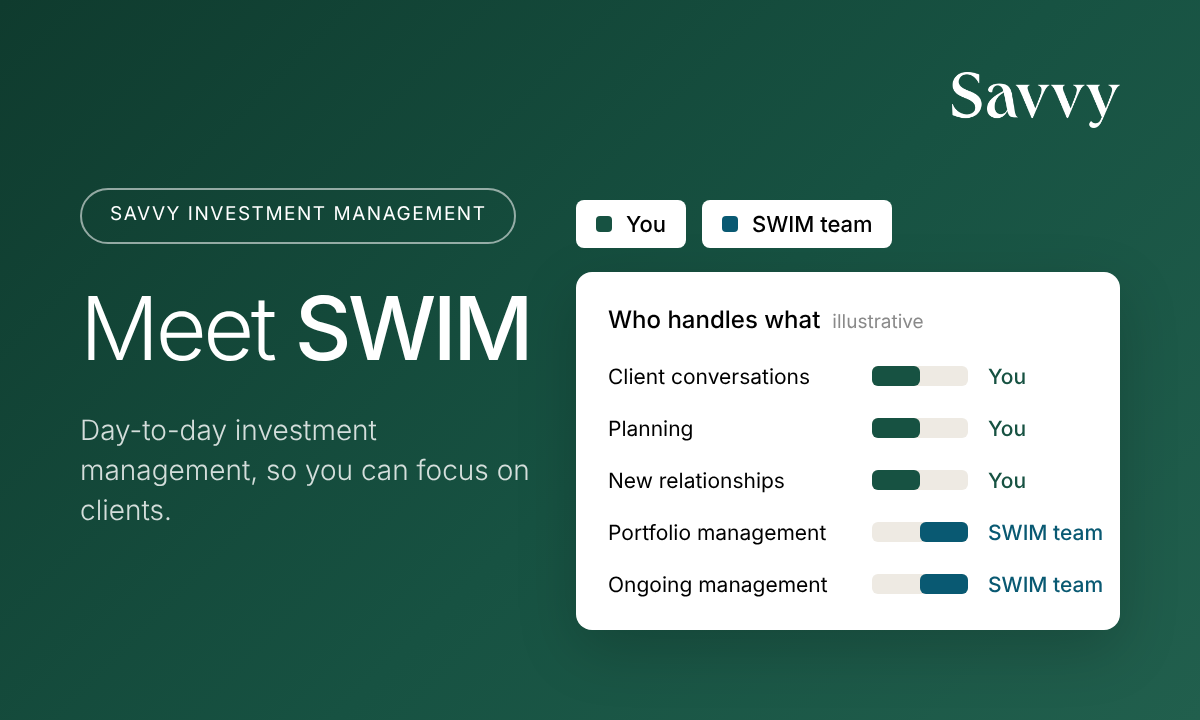
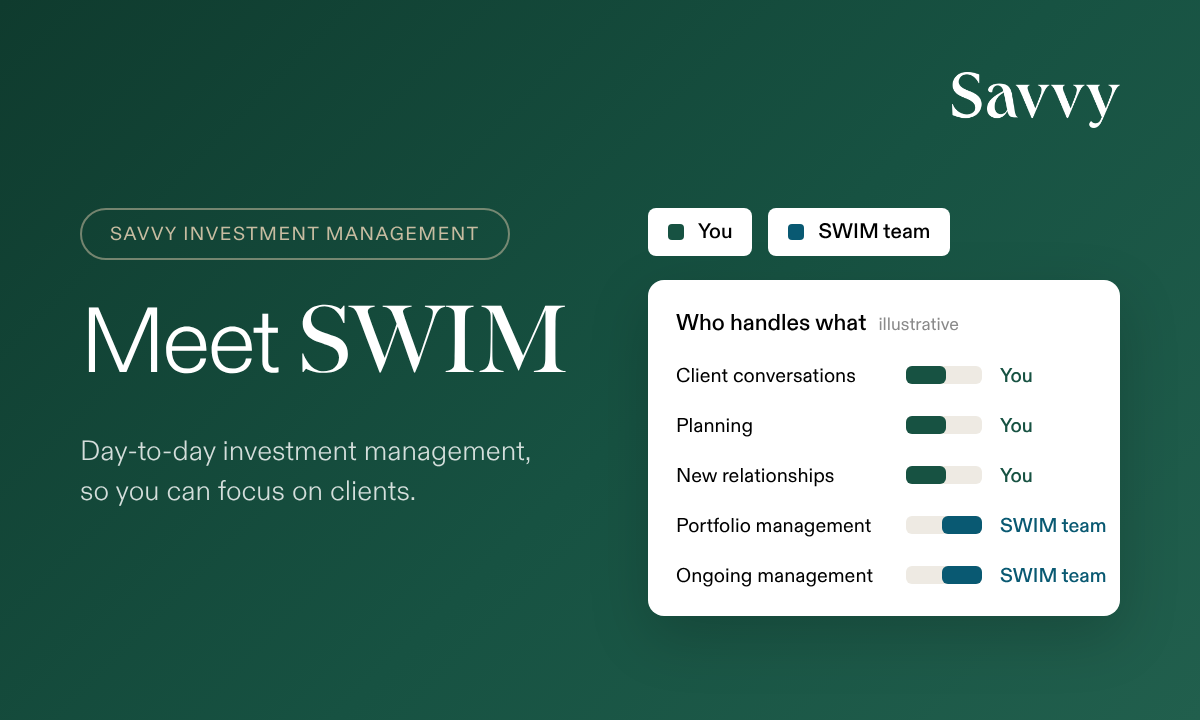
Email 1: brand-font header (Diatype + Big Caslon), eyebrow ecru and padding, spacing, 10% dividers
Claude-Session: https://claude.ai/code/session_01C4U8FBFynJxChWkXC4yVRQ

diff --git a/emails/header-swim.html b/emails/header-swim.html
@@ -1,37 +1,46 @@
 <!DOCTYPE html>
 <html lang="en"><head><meta charset="UTF-8">
 <title>Email 1 header image</title>
-<!-- Source for assets/header-swim.png. Rendered at 600x360 @2x (1200x720) with Playwright. Edit here, re-render, replace the PNG. -->
+<!--
+  Source for assets/header-swim.png. Rendered at 600x360 @2x (1200x720) with Playwright.
+  Brand fonts: ABC Diatype (Light/Regular/Medium) + Big Caslon Regular, loaded from ./fonts/
+  (licensed files, git-ignored; copy them from the savvy-one-pagers skill assets/fonts before re-rendering).
+  Edit here, re-render, replace the PNG.
+-->
 <style>
+  @font-face{font-family:'ABC Diatype';font-weight:300;src:url('fonts/ABCDiatype-Light.otf')}
+  @font-face{font-family:'ABC Diatype';font-weight:400;src:url('fonts/ABCDiatype-Regular.otf')}
+  @font-face{font-family:'ABC Diatype';font-weight:500;src:url('fonts/ABCDiatype-Medium.otf')}
+  @font-face{font-family:'Big Caslon';font-weight:400;src:url('fonts/BigCaslon-Regular.otf')}
   *{box-sizing:border-box;margin:0}
   body{background:#fff}
-  #hdr{position:relative;width:600px;height:360px;overflow:hidden;font-family:'Inter',Arial,sans-serif;color:#fff;
+  #hdr{position:relative;width:600px;height:360px;overflow:hidden;font-family:'ABC Diatype',Arial,sans-serif;color:#fff;
        background:linear-gradient(135deg,#0F3B2E 0%,#175242 55%,#215F4D 100%)}
   .logo{position:absolute;top:36px;right:40px;width:84px}
-  .left{position:absolute;left:40px;top:0;bottom:0;width:228px;display:flex;flex-direction:column;justify-content:center;align-items:flex-start;gap:20px}
-  .eyebrow{border:1px solid rgba(255,255,255,.55);border-radius:999px;padding:8px 14px;font-size:9.5px;line-height:10px;letter-spacing:.08em;text-transform:uppercase;white-space:nowrap}
-  h1{font-weight:300;font-size:44px;line-height:44px;letter-spacing:-.04em;white-space:nowrap}
-  h1 b{font-weight:500}
-  .sub{font-weight:300;font-size:14px;line-height:20px;color:rgba(255,255,255,.82)}
-  .right{position:absolute;right:40px;top:100px;width:272px}
+  .left{position:absolute;left:40px;top:0;bottom:0;display:flex;flex-direction:column;justify-content:center;align-items:flex-start;gap:20px}
+  .eyebrow{border:1px solid rgba(199,188,161,.55);border-radius:999px;padding:7.25px 14px 6.75px;font-size:9.5px;line-height:10px;letter-spacing:.08em;text-transform:uppercase;white-space:nowrap;color:#C7BCA1}
+  h1{font-weight:300;font-size:46px;line-height:46px;letter-spacing:-.04em;white-space:nowrap}
+  h1 .serif{font-family:'Big Caslon',Georgia,serif;font-weight:400;letter-spacing:-.01em}
+  .sub{font-weight:300;font-size:14px;line-height:20px;color:rgba(255,255,255,.82);white-space:nowrap}
+  .right{position:absolute;right:40px;top:104px;width:236px}
   .tags{display:flex;gap:8px;margin-bottom:12px}
-  .tag{display:flex;align-items:center;gap:7px;background:#fff;color:#000;border-radius:4px;padding:0 10px;height:24px;font-size:11px;font-weight:500}
+  .tag{display:flex;align-items:center;gap:7px;background:#fff;color:#000;border-radius:4px;padding:0 10px;height:24px;font-size:10.5px;font-weight:500}
   .dot{width:8px;height:8px;border-radius:2px}
-  .card{background:#fff;color:#000;border-radius:8px;padding:16px 16px 10px;box-shadow:0 10px 30px rgba(0,0,0,.18)}
-  .ct{display:flex;align-items:baseline;gap:6px;font-size:12px;font-weight:500;margin-bottom:8px}
-  .ct i{font-style:normal;font-weight:400;font-size:9.5px;color:#8a8a8a}
-  .row{display:flex;align-items:center;height:26px;font-size:10.5px;white-space:nowrap}
+  .card{background:#fff;color:#000;border-radius:8px;padding:14px 14px 8px;box-shadow:0 10px 30px rgba(0,0,0,.18)}
+  .ct{display:flex;align-items:baseline;gap:6px;font-size:11.5px;font-weight:500;margin-bottom:6px}
+  .ct i{font-style:normal;font-weight:400;font-size:9px;color:#8a8a8a}
+  .row{display:flex;align-items:center;height:25px;font-size:10px;white-space:nowrap}
   .row .l{flex:1}
-  .track{position:relative;width:48px;height:10px;border-radius:3px;background:#EEEAE3;margin-right:10px}
-  .track span{position:absolute;top:0;height:10px;width:24px;border-radius:3px}
-  .row .r{width:50px;font-weight:500}
+  .track{position:relative;width:38px;height:9px;border-radius:3px;background:#EEEAE3;margin-right:9px}
+  .track span{position:absolute;top:0;height:9px;width:20px;border-radius:3px}
+  .row .r{width:46px;font-weight:500}
 </style></head><body>
 <div id="hdr">
   <img class="logo" src="assets/savvy-wordmark-white.png" alt="Savvy">
   <div class="left">
     <div class="eyebrow">Savvy Investment Management</div>
-    <h1>Meet <b>SWIM</b></h1>
-    <div class="sub">Day-to-day investment management, so you can focus on clients.</div>
+    <h1>Meet <span class="serif">SWIM</span></h1>
+    <div class="sub">Day-to-day investment management,<br>so you can focus on clients.</div>
   </div>
   <div class="right">
     <div class="tags">

diff --git a/emails/nurture-1.html b/emails/nurture-1.html
@@ -54,7 +54,7 @@
     <tr><td class="px" style="padding:56px 48px 0;">
       <table role="presentation" width="100%" cellpadding="0" cellspacing="0" border="0">
 
-        <tr><td style="border-top:1px solid #000000;padding:28px 0 36px;">
+        <tr><td style="border-top:1px solid #E6E6E6;padding:28px 0 36px;">
           <table role="presentation" width="100%" cellpadding="0" cellspacing="0" border="0"><tr>
             <td width="72" valign="top" style="width:72px;"><img src="./assets/icon-clock.png" width="48" height="48" alt="" style="width:48px;height:48px;"></td>
             <td valign="top" style="font-family:'Inter',Arial,Helvetica,sans-serif;">
@@ -64,7 +64,7 @@
           </tr></table>
         </td></tr>
 
-        <tr><td style="border-top:1px solid #D9D2C3;padding:28px 0 36px;">
+        <tr><td style="border-top:1px solid #E6E6E6;padding:28px 0 36px;">
           <table role="presentation" width="100%" cellpadding="0" cellspacing="0" border="0"><tr>
             <td width="72" valign="top" style="width:72px;"><img src="./assets/icon-globe.png" width="48" height="48" alt="" style="width:48px;height:48px;"></td>
             <td valign="top" style="font-family:'Inter',Arial,Helvetica,sans-serif;">
@@ -74,7 +74,7 @@
           </tr></table>
         </td></tr>
 
-        <tr><td style="border-top:1px solid #D9D2C3;padding:28px 0 8px;">
+        <tr><td style="border-top:1px solid #E6E6E6;padding:28px 0 8px;">
           <table role="presentation" width="100%" cellpadding="0" cellspacing="0" border="0"><tr>
             <td width="72" valign="top" style="width:72px;"><img src="./assets/icon-circles.png" width="48" height="48" alt="" style="width:48px;height:48px;"></td>
             <td valign="top" style="font-family:'Inter',Arial,Helvetica,sans-serif;">
@@ -128,7 +128,7 @@
     </td></tr>
 
     <!-- FOOTER (text = black at 70%, as solid #4D4D4D for Outlook) -->
-    <tr><td class="px" align="center" style="padding:40px 48px 44px;border-top:1px solid #E6DCC8;font-family:'Inter',Arial,Helvetica,sans-serif;font-size:12px;line-height:19px;color:#4D4D4D;">
+    <tr><td class="px" align="center" style="padding:40px 48px 44px;border-top:1px solid #E6E6E6;font-family:'Inter',Arial,Helvetica,sans-serif;font-size:12px;line-height:19px;color:#4D4D4D;">
       <img src="./assets/savvy-wordmark-black.png" width="88" alt="Savvy" style="width:88px;height:auto;margin:0 auto 24px;">
       <a href="#" style="color:#4D4D4D;text-decoration:underline;">Not the right time? Choose when to hear from us</a>
       <div style="margin-top:16px;">Savvy Wealth, 41 East 11th Street, New York, NY 10003, United States</div>
